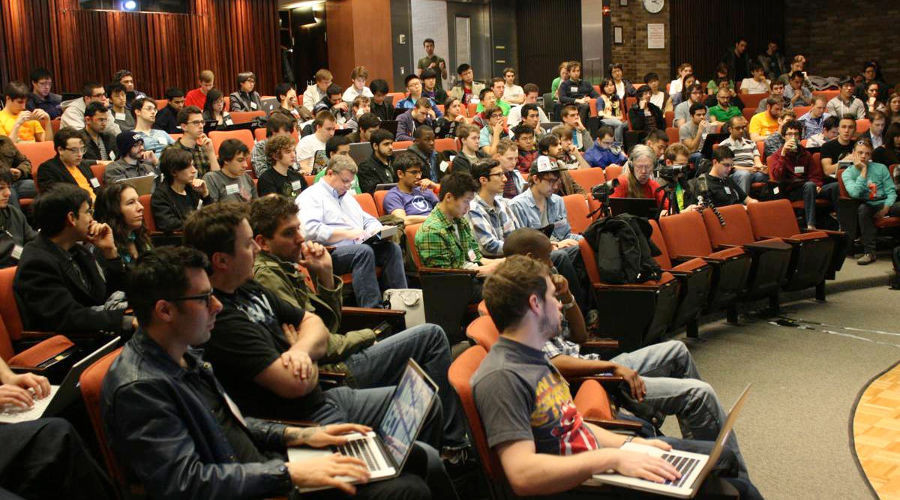
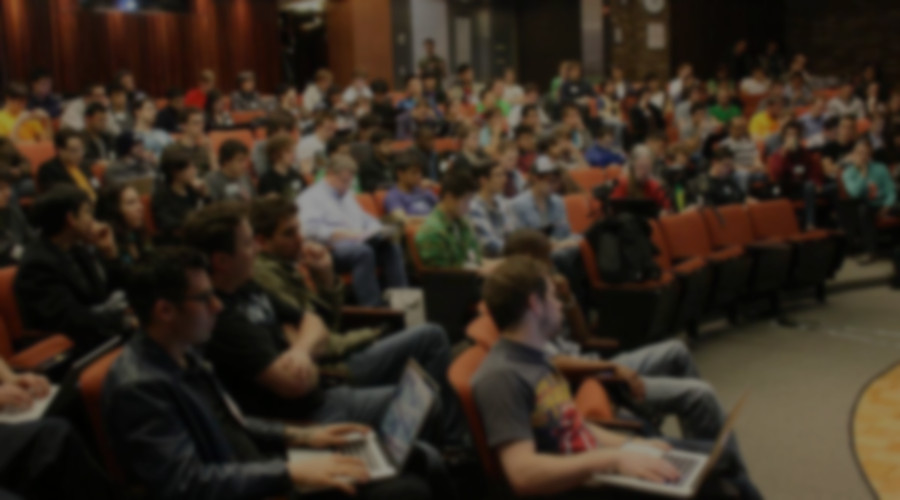
change css and opacity of carousel images

diff --git a/public/index.html b/public/index.html
@@ -60,7 +60,7 @@
     </ol>
     <div class="carousel-inner">
         <div class="item active">
-            <img src="img/UCcampus.jpg" alt="First slide" class="blur">
+            <img src="img/UCcampus.png" alt="First slide" class="blur">
 
             <div class="container">
                 <div class="carousel-caption">

diff --git a/public/css/carousel.css b/public/css/carousel.css
@@ -204,7 +204,7 @@ img.logo{
   text-align: center;
 }
 .blur {
- -webkit-filter: brightness(50%) blur(2.5px);
--moz-filter: brightness(50%) blur(5px);
+    /*-webkit-filter: brightness(50%) blur(2.5px);*/
+    /*filter: brightness(50%) blur(5px);*/
 }
 
